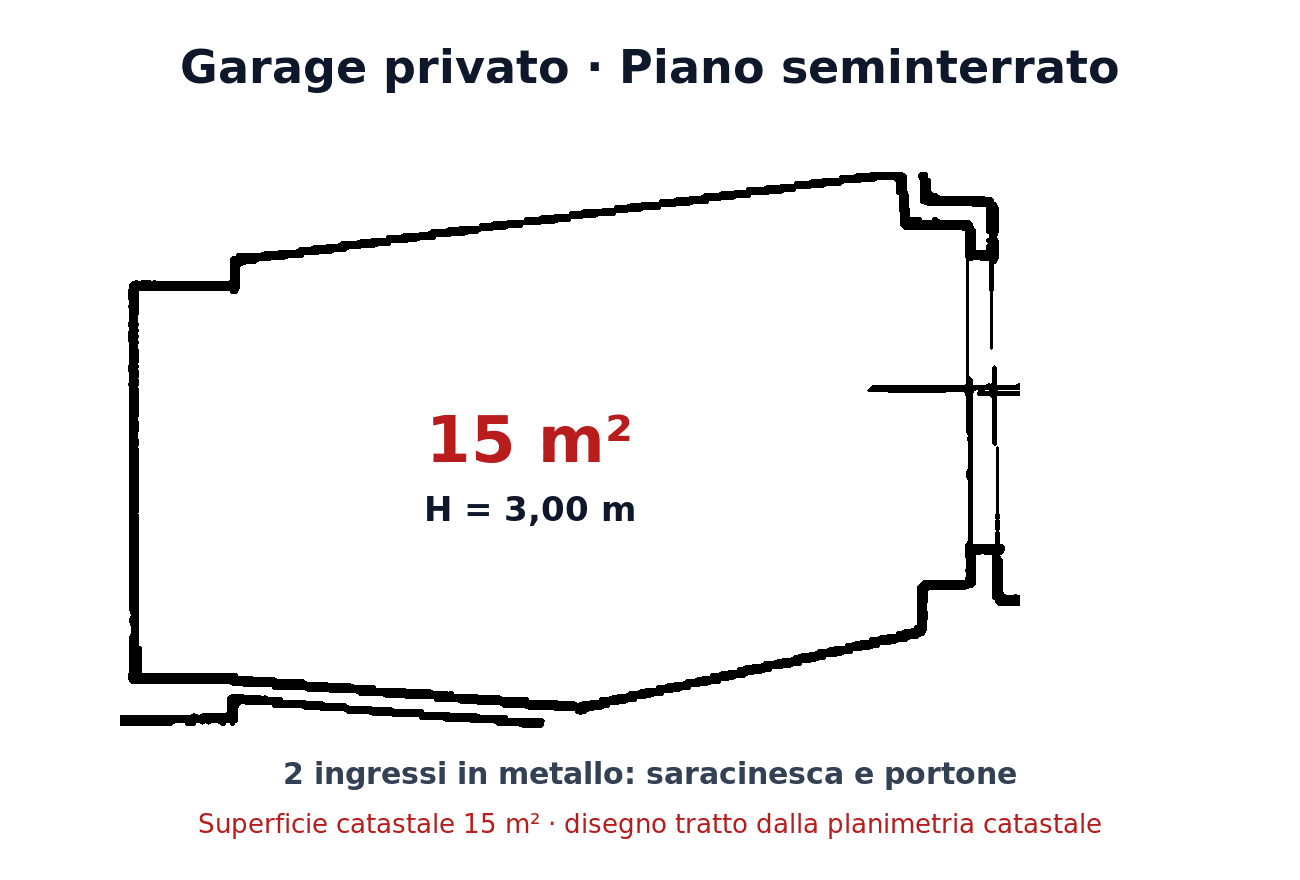
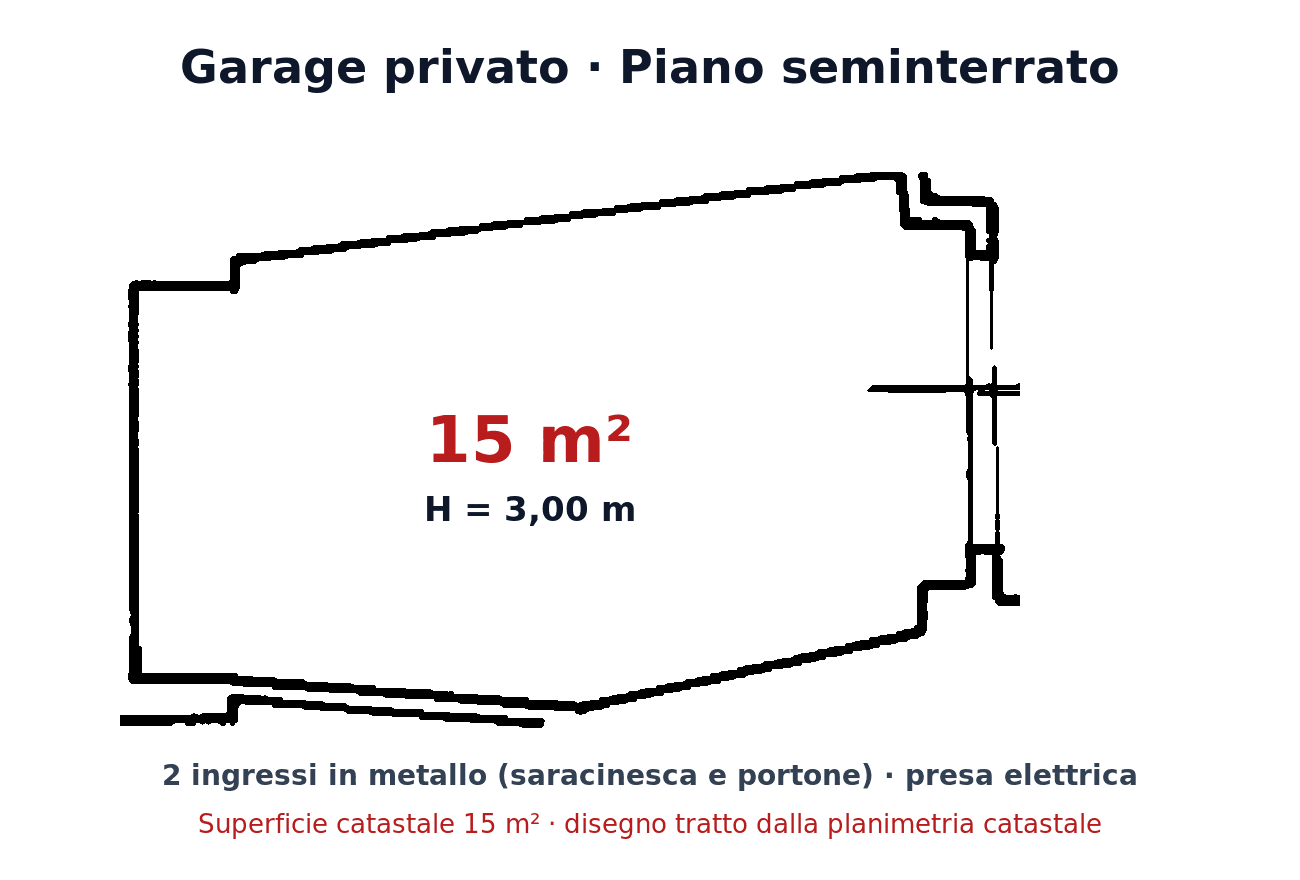
Garage: aggiunta la presa elettrica ovunque si parla del garage
Claude-Session: https://claude.ai/code/session_015e9Vidr4mFy76mmRUH6mFx

Changed region(s): [[0.1231, 0.8591, 0.8923, 0.9205]]

diff --git a/src/components/InfoDrawer.tsx b/src/components/InfoDrawer.tsx
@@ -211,7 +211,7 @@ export function InfoDrawer({
                 <Row label="Tipologia">Quadrilocale: 4 stanze</Row>
                 <Row label="Cucina">Abitabile, separata</Row>
                 <Row label="Bagni">2</Row>
-                <Row label="Pertinenze">2 balconi + garage privato di {PROPERTY.catasto.garage.superficie} al piano seminterrato, adatto anche a SUV, con 2 ingressi in metallo (saracinesca e portone)</Row>
+                <Row label="Pertinenze">2 balconi + garage privato di {PROPERTY.catasto.garage.superficie} al piano seminterrato, adatto anche a SUV, con 2 ingressi in metallo (saracinesca e portone) e presa elettrica</Row>
                 <Row label="Ripostiglio">Nessuno</Row>
               </dl>
             </Card>

diff --git a/src/data/composition.ts b/src/data/composition.ts
@@ -16,7 +16,7 @@ export const composition: CompositionItem[] = [
     area: "Bagni",
     text: "2 bagni: 1 bagno principale completo interno con vasca + 1 bagno esterno/lavanderia finestrato sul balcone con WC, pilozzo e caldaia",
   },
-  { area: "Esterni", text: "2 balconi e garage privato di 15 m² al piano seminterrato, adatto anche a un SUV, con due ingressi in metallo (saracinesca e portone)" },
+  { area: "Esterni", text: "2 balconi e garage privato di 15 m² al piano seminterrato, adatto anche a un SUV, con due ingressi in metallo (saracinesca e portone) e presa elettrica" },
 ];
 
 /** Dati rapidi mostrati nella barra sotto il prezzo */

diff --git a/src/components/Location.tsx b/src/components/Location.tsx
@@ -43,7 +43,7 @@ export function Location() {
         </span>
         <p className="min-w-0 text-[15px] leading-snug text-ink">
           <strong className="font-semibold">Zero stress parcheggio in Via Vittorio Veneto</strong> grazie all&apos;ampio garage
-          privato in cui entra tranquillamente anche un SUV, con due ingressi in metallo: saracinesca e portone.
+          privato in cui entra tranquillamente anche un SUV, con due ingressi in metallo (saracinesca e portone) e presa elettrica.
         </p>
       </div>
       <div className="grid gap-3 md:grid-cols-[1fr_1.1fr]">

diff --git a/src/data/galleryData.ts b/src/data/galleryData.ts
@@ -129,7 +129,7 @@ export const galleryData: GalleryItem[] = [
     src: "/images/attuali/15-garage.jpg",
     render: "/images/render/render-13-garage.jpg",
     title: "Garage privato",
-    caption: "Box auto privato sotto casa con due ingressi in metallo: una saracinesca e un portone.",
+    caption: "Box auto privato sotto casa con due ingressi in metallo (saracinesca e portone) e presa elettrica.",
     alt: "Box auto privato chiuso con auto parcheggiata",
   },
 ];
